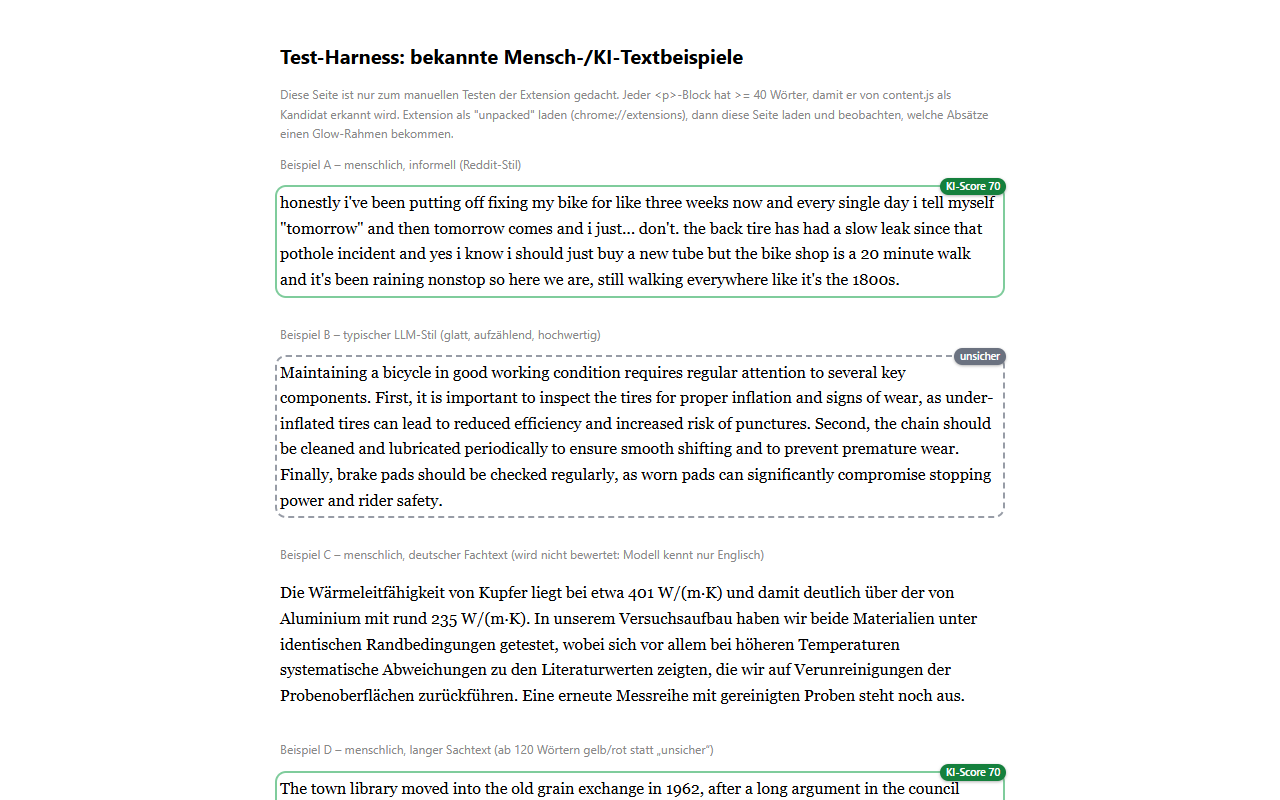
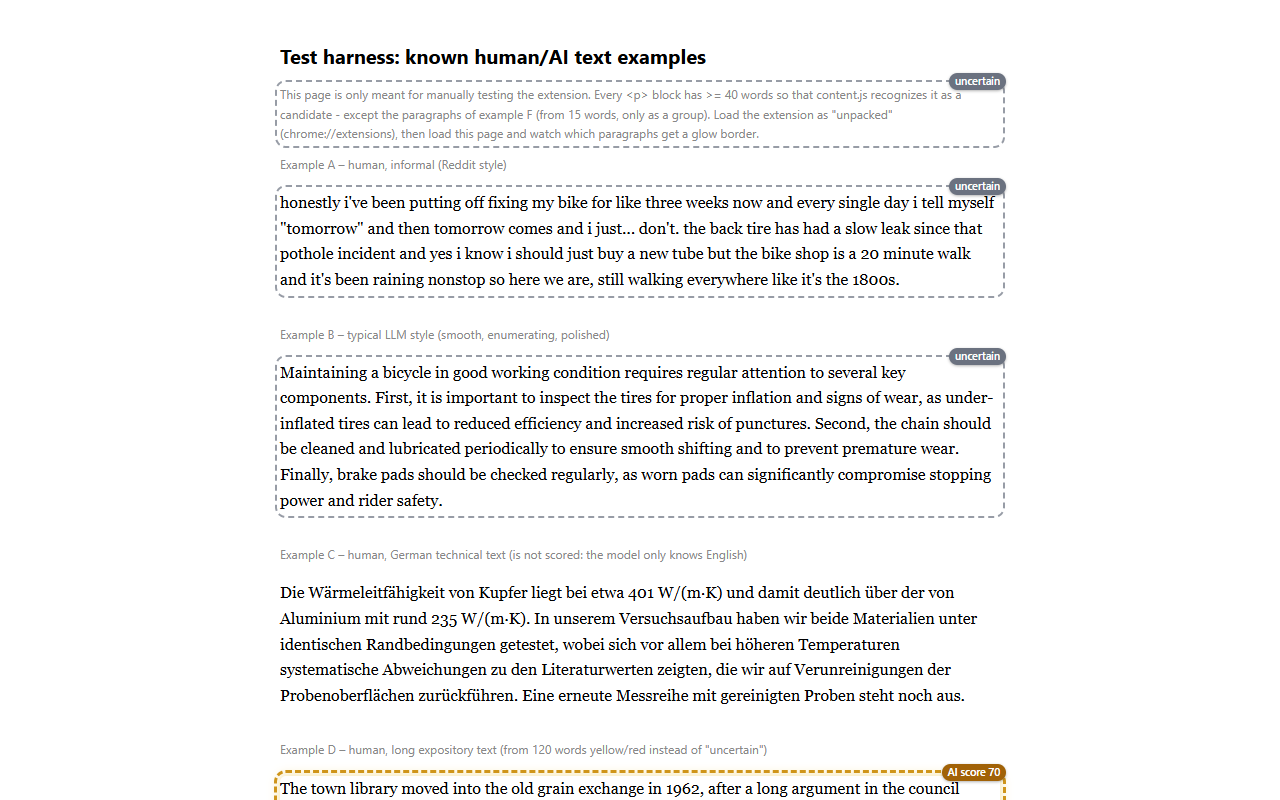
Align wording across extension and docs, regenerate store screenshots (#3)
- "bundled" blocklist in UI and docs, docs quote the UI labels exactly
- spelling "license" throughout
- drop the dead privacy-placeholder check from scripts/package.mjs
- store screenshots and promo tile regenerated with the English UI
- orchestration: WP-12 done, brief removed

diff --git a/extension/config.js b/extension/config.js
@@ -113,7 +113,7 @@ globalThis.AIVSAI = (() => {
     // Shipped: generated/blocklist.js (scripts/build-blocklist.mjs), plus own entries and exceptions.
     builtinBlocklist: true,
     blockedSites: [], // own entries, always apply
-    unblockedSites: [], // exceptions from the shipped list
+    unblockedSites: [], // exceptions from the bundled list
     // Treat sites with a visible password or payment field as blocked (catches what no list knows)
     sensitiveHeuristic: true,
     // only score paragraphs near the visible area, the rest only on scrolling (saves cloud costs)
@@ -201,7 +201,7 @@ globalThis.AIVSAI = (() => {
     return sites.some((s) => host === s || host.endsWith(`.${s}`));
   }
 
-  // Shipped list as a "\nd1\nd2\n...\n" string: search by host and all parent domains,
+  // Bundled list as a "\nd1\nd2\n...\n" string: search by host and all parent domains,
   // without building a set with 10,000 entries in every tab. Result remembered per host.
   const builtinCache = new Map();
   function builtinMatch(host) {
@@ -216,7 +216,7 @@ globalThis.AIVSAI = (() => {
     return builtinCache.get(host);
   }
 
-  // Why a site is blocked: "user" (own entry), "builtin" (shipped list) or null
+  // Why a site is blocked: "user" (own entry), "builtin" (bundled list) or null
   function blockReason(host, cfg) {
     if (siteMatches(host, cfg.blockedSites || [])) return "user";
     if (cfg.builtinBlocklist && builtinMatch(host) && !siteMatches(host, cfg.unblockedSites || [])) return "builtin";

diff --git a/extension/options.html b/extension/options.html
@@ -195,7 +195,7 @@
         precedence over all other settings. You can still deliberately check individual passages there via selection or
         right-click.</p>
       <label class="check" style="margin-top:0"><input type="checkbox" id="builtinBlocklist" />
-        <div>Use the shipped list (online banking, webmail, payment services, government portals)
+        <div>Use the bundled list (online banking, webmail, payment services, government portals)
           <div class="hint" id="builtinInfo"></div></div></label>
       <label class="check"><input type="checkbox" id="sensitiveHeuristic" />
         <div>Do not scan sites with a password or payment field
@@ -208,7 +208,7 @@
           <textarea id="blockedSites" rows="4" placeholder="intranet.example.com"></textarea>
         </div>
         <div>
-          <label class="label" for="unblockedSites">Exceptions from the shipped list</label>
+          <label class="label" for="unblockedSites">Exceptions from the bundled list</label>
           <textarea id="unblockedSites" rows="4" placeholder="blog.bank.example"></textarea>
         </div>
       </div>

diff --git a/extension/popup.js b/extension/popup.js
@@ -39,7 +39,7 @@ function renderSite() {
     $("siteHint").textContent = "Cannot scan here";
   } else if (reason) {
     $("siteHint").textContent =
-      reason === "builtin" ? "Shipped blocklist (bank/mail) – is never scanned" : "Blocklist – is never scanned";
+      reason === "builtin" ? "Bundled blocklist (bank/mail) – is never scanned" : "Blocklist – is never scanned";
   } else if (config.scanMode === "all") {
     siteAuto.checked = true;
     siteAuto.disabled = true;
@@ -148,7 +148,7 @@ $("siteAuto").addEventListener("change", async (e) => {
 $("blockToggle").addEventListener("click", async () => {
   const notHost = (list) => list.filter((s) => !AIVSAI.siteMatches(host, [s]));
   if (AIVSAI.blockReason(host, config)) {
-    // remove own entries; if the shipped list still applies, add an exception for this host
+    // remove own entries; if the bundled list still applies, add an exception for this host
     config.blockedSites = notHost(config.blockedSites);
     if (AIVSAI.blockReason(host, config)) config.unblockedSites = [...config.unblockedSites, host];
   } else {

diff --git a/extension/privacy.html b/extension/privacy.html
@@ -57,7 +57,7 @@
     <li>By default only on sites that you explicitly allow. Without permission the extension reads no
       text and does not observe the page.</li>
     <li><b>Blocklist:</b> Webmail, online banking, payment services and government portals with a login are never
-      checked automatically or via "Scan page now". The shipped list (around 14,000 domains) is
+      checked automatically or via "Scan page now". The bundled list (around 14,000 domains) is
       built into the extension and is not reloaded from the network – so nothing is reported anywhere
       about which sites you visit. Own entries and exceptions are possible in the settings and in the popup.</li>
     <li><b>Password and payment fields:</b> If a page shows a password, credit card or one-time-code field,

diff --git a/training/build_reference_set.py b/training/build_reference_set.py
@@ -4,9 +4,9 @@ from two redistributable sources, short (40..119 words) and long (from 120 words
 bucketed separately - so that "Check model" can, if needed, propose its own short-text threshold
 (reliableWords/shortRedFrom, like config.js RELIABLE_WORDS/models.js) from it.
 
-Licence check (details: git history of orchestration/LOG.md, WP-11, DECISION entries; left out when in doubt):
+License check (details: git history of orchestration/LOG.md, WP-11, DECISION entries; left out when in doubt):
   - HC3 (Hello-SimpleAI/HC3), CC BY-SA 4.0 - as before, five domains, generator ChatGPT (2023).
-  - RAID (liamdugan/raid), MIT licence - domain "wiki" (human texts from Wikipedia, CC BY-SA-
+  - RAID (liamdugan/raid), MIT license - domain "wiki" (human texts from Wikipedia, CC BY-SA-
     compatible), generators llama-chat/mistral/mistral-chat/mpt/mpt-chat/gpt2 (open models,
     contained in the MIT-licensed train split). Only `attack == "none"` (unaltered text, no
     RAID adversarial variant such as "synonym"/"paraphrase") and `decoding == "greedy"`
@@ -16,24 +16,24 @@ Licence check (details: git history of orchestration/LOG.md, WP-11, DECISION ent
     stay within the framework (open models) set by the orchestrator; see report for details.
   Previously wrongly assumed as a source and now removed: the sub-source "wikipedia" from
   Jinyan1/COLING_2025_MGT_en - verified via the column "source" it comes from M4GT-Bench/M4
-  (source == "m4gt"), not from MAGE as first assumed. M4GT-Bench/M4 have no licence on GitHub
+  (source == "m4gt"), not from MAGE as first assumed. M4GT-Bench/M4 have no license on GitHub
   ("license": null) - not redistributable, "left out when in doubt".
   Deliberately NOT used (other domains of Jinyan1/COLING_2025_MGT_en or RAID):
   - reviews (Yelp/IMDb): Yelp Open Dataset explicitly academic only, no redistribution to
-    third parties; IMDb dataset without a clear redistribution licence.
-  - news (XSum/CNN/TLDR/DialogSum): press article text (BBC/CNN), XSum licence on Hugging Face
+    third parties; IMDb dataset without a clear redistribution license.
+  - news (XSum/CNN/TLDR/DialogSum): press article text (BBC/CNN), XSum license on Hugging Face
     "unknown"; the Apache-2.0 tag on the CNN/DailyMail loading script does not cover the copyright status
     of the actual news texts. Likewise RAID domains "news"/"reviews"/"reddit"/"books"/
     "abstracts"/"recipes"/"poetry": human source texts there are press articles, Amazon/
     Goodreads reviews, Reddit posts, book excerpts, scientific abstracts, recipes and
     poems respectively, with their own rights that are unresolved or known to be restrictive - not used.
-  - sci_abstract (arXiv/PeerRead/SciGen/PubMed): licence per paper or publisher, arXiv's default
-    licence only allows arXiv itself to redistribute; cannot be checked at scale.
+  - sci_abstract (arXiv/PeerRead/SciGen/PubMed): license per paper or publisher, arXiv's default
+    license only allows arXiv itself to redistribute; cannot be checked at scale.
   - howto (WikiHow): content from wikihow.com is under CC BY-NC-SA 3.0 - NonCommercial does not fit
     a redistributed dataset.
   - forum parts outside HC3 (reddit, cmv, eli5): inconsistent/unresolved origin
     (among others Pushshift.io, whose legal status is itself disputed); unlike HC3, no
-    redistribution licence explicitly chosen by the authors' team found.
+    redistribution license explicitly chosen by the authors' team found.
 
 Extraction as in build_eval_suite.py (extract_excerpt, imported from there instead of duplicated):
 whitespace/tokenisation artefacts normalised ("space before punctuation", known among others from
@@ -221,9 +221,9 @@ def write(rows: list[dict]) -> None:
         f"{n_human} human and {n_ai} AI texts, English, short\n"
         "// (< 120 words) and long paragraphs bucketed separately (field `words`, see RELIABLE_WORDS in\n"
         "// model-check.js). Domains/generators: five from HC3 (Hello-SimpleAI/HC3, CC BY-SA 4.0, generator\n"
-        "// ChatGPT 2023) plus \"wikipedia\" from RAID (liamdugan/raid, MIT licence, domain \"wiki\"; human\n"
+        "// ChatGPT 2023) plus \"wikipedia\" from RAID (liamdugan/raid, MIT license, domain \"wiki\"; human\n"
         "// texts are Wikipedia articles; generators llama-chat/mistral/mistral-chat/mpt/mpt-chat/gpt2).\n"
-        "// Licence considerations per sub-source: comment at the head of training/build_reference_set.py.\n"
+        "// License weighing per sub-source: comment at the top of training/build_reference_set.py.\n"
         "// Generated by training/build_reference_set.py - do not edit by hand.\n"
         f"export const REFERENCE_SET = [\n{items}\n];\n",
         encoding="utf-8",

diff --git a/training/build_eval_suite.py b/training/build_eval_suite.py
@@ -2,10 +2,10 @@
 Builds a broader, reproducible eval suite (TODO item 3 / WP-01) from the public
 dataset Jinyan1/COLING_2025_MGT_en (Hugging Face). This dataset combines three research
 benchmarks for human-vs-AI detection (column "source"): MAGE (Apache-2.0), M4GT-Bench
-(EACL 2024, mbzuai-nlp/M4 - no explicit licence file found in the repo, pure research
+(EACL 2024, mbzuai-nlp/M4 - no explicit license file found in the repo, pure research
 use) and HC3 (**CC BY-SA 4.0**, not Apache-2.0 - verified via the dataset card, see
 git history of orchestration/LOG.md, WP-11; already used in this project for prepare_dataset.py).
-For the compilation itself (Jinyan1/COLING_2025_MGT_en) no licence is entered in the dataset card YAML
+For the compilation itself (Jinyan1/COLING_2025_MGT_en) no license is entered in the dataset card YAML
 - see DECISION in the log. Used only for local evaluation, raw data
 stays under training/data/ (gitignored), is not redistributed.
 
@@ -17,11 +17,11 @@ Domains (our category -> sub_source values of the dataset):
     reviews      yelp, imdb
     howto        wikihow
 
-Note on licence/origin per sub_source (column "source", verified by cross-check, WP-11):
+Note on license/origin per sub_source (column "source", verified by cross-check, WP-11):
 finance/medicine/open_qa/reddit_eli5/wiki_csai = hc3 (CC BY-SA 4.0); cmv/cnn/dialogsum/eli5/
 hswag/imdb/pubmed/roct/sci_gen/tldr/wp/xsum/yelp = mage (Apache-2.0, but human
 source texts partly with their own terms of use, e.g. Yelp/IMDb); arxiv/outfox/peerread/
-reddit/wikihow/**wikipedia** = m4gt (**no licence**, M4GT-Bench/M4 without a LICENSE file/field).
+reddit/wikihow/**wikipedia** = m4gt (**no license**, M4GT-Bench/M4 without a LICENSE file/field).
 The sub_source "wikipedia" above does NOT come from MAGE but from M4GT - contrary to what the name
 suggests. MAGE's own Wikipedia/SQuAD domain is called "squad" here (not included in DOMAINS above)
 and only has older generators (gpt-3.5-turbo, otherwise text-davinci-00x/flan-t5/opt/

diff --git a/training/MODEL_SEARCH.md b/training/MODEL_SEARCH.md
@@ -8,22 +8,22 @@ as displayed) and desklib (1.7 GB download / ~475 MB in the browser, ~1.3-2.3 s/
 
 ## Candidates (researched)
 
-Criteria from the brief: open licence without a non-commercial clause, < 500 MB (ideally < 200 MB),
+Criteria from the brief: open license without a non-commercial clause, < 500 MB (ideally < 200 MB),
 public without a gate, current training data, transformers.js-compatible architecture (checked:
 RoBERTa, BERT and ModernBERT are present in the `@huggingface/transformers@4.3.0` pinned in this repo
 - `package/src/models/{roberta,bert,modernbert}/`; Longformer is not).
 
-| Repo | Licence | Architecture | Size (fp32 / ONNX) | ONNX available | Training data | Status |
+| Repo | License | Architecture | Size (fp32 / ONNX) | ONNX available | Training data | Status |
 |---|---|---|---|---|---|---|
 | **fakespot-ai/roberta-base-ai-text-detection-v1** | Apache-2.0 | RoBERTa-base (125M) | 499 MB / **125 MB int8** | Yes ([MedAliFarhat/ai-text-detector-onnx](https://huggingface.co/MedAliFarhat/ai-text-detector-onnx), Apache-2.0, `sha 0c809a8`, explicitly built for transformers.js) | Not disclosed in detail (refers to github.com/FakespotAILabs/ApolloDFT, technical report without a concrete list of sources) | **Measured, recommended** |
 | MayZhou/e5-small-lora-ai-generated-detector | MIT | BERT/e5-small (33M) | 133 MB / no ONNX | No | RAID-train (80k human, 128k AI) + 10k Twitter+GPT-4o-mini paraphrases | Measured, **rejected** (poorly calibrated) |
 | AICodexLab/answerdotai-ModernBERT-base-ai-detector | Apache-2.0 | ModernBERT-base (149M) | 598 MB / no ONNX | No | DAIGT V2 (Kaggle student essays + ChatGPT/Claude/DeepSeek, ~36k texts) | Measured, **rejected** (scores saturate near 1.0, generalises poorly) |
 | ShantanuT01/gradient-ai-text-detector | MIT | DeBERTa-v3-large (~435M, like desklib) | 1.74 GB / 408 MB (int4 `model_q4.onnx` only, no int8) | Yes (int4) | DACTYL 2.0 + LLMTrace + MAGA-Bench (~1.1 million texts) | Not measured: size target clearly missed (almost as large as desklib, int4 in the browser also risky/little tested); model card claims AUROC 0.955 OOD vs. desklib 0.921 OOD - own value, not verified |
 | yaful/MAGE | Apache-2.0 | Longformer | - | - | MAGE dataset | **Rejected**: Longformer is not supported by transformers.js; MAGE is also one of the three sources of our own eval suite (`training/EVAL_RESULTS.md`) - direct contamination |
-| Hello-SimpleAI/chatgpt-detector-roberta | no licence given | RoBERTa-base | - | - | HC3 | **Rejected**: no licence in the model repo, HC3 is part of our eval suite (forum domain) - contamination |
-| andreas122001/roberta-academic-detector, roberta-mixed-detector | OpenRAIL | RoBERTa-large | - | - | NicolaiSivesind/human-vs-machine | **Rejected**: OpenRAIL is a behavioural licence (usage restrictions), not MIT/Apache/CC-BY as required |
-| raj-tomar001/LLM-DetectAIve_deberta-base | no licence/model card | DeBERTa-base | - | - | unknown | **Rejected**: no model card, no licence information |
-| SuperAnnotate/ai-detector(-low-fpr) | "other" (unclear) | RoBERTa-large | 1.4 GB | No | Wikipedia + ELI5 | **Rejected**: licence unclear, too large, Wikipedia/ELI5 are part of our eval suite - contamination |
+| Hello-SimpleAI/chatgpt-detector-roberta | no license given | RoBERTa-base | - | - | HC3 | **Rejected**: no license in the model repo, HC3 is part of our eval suite (forum domain) - contamination |
+| andreas122001/roberta-academic-detector, roberta-mixed-detector | OpenRAIL | RoBERTa-large | - | - | NicolaiSivesind/human-vs-machine | **Rejected**: OpenRAIL is a behavioural license (usage restrictions), not MIT/Apache/CC-BY as required |
+| raj-tomar001/LLM-DetectAIve_deberta-base | no license/model card | DeBERTa-base | - | - | unknown | **Rejected**: no model card, no license information |
+| SuperAnnotate/ai-detector(-low-fpr) | "other" (unclear) | RoBERTa-large | 1.4 GB | No | Wikipedia + ELI5 | **Rejected**: license unclear, too large, Wikipedia/ELI5 are part of our eval suite - contamination |
 
 8 candidates researched, 3 actually measured (acceptance requires at least 2).
 
@@ -310,7 +310,7 @@ already covers fakespot completely (see label check above). `desklib` stays the 
 as with desklib's own pooling class needed) - little effort, so included. Revision there:
 `f9cdb14d1f8b105f597d80fa7b56f20c6ea0e9db` (PyTorch original, last commit).
 
-**Licence:** `extension/THIRD_PARTY_NOTICES.md` extended with the fakespot entry (Apache-2.0 for
+**License:** `extension/THIRD_PARTY_NOTICES.md` extended with the fakespot entry (Apache-2.0 for
 original and third-party ONNX, base model RoBERTa-base MIT).
 
 ### Limitations (in addition to WP-06)

diff --git a/DEVELOPMENT.md b/DEVELOPMENT.md
@@ -47,7 +47,7 @@ In Chrome/Edge:
 1. `chrome://extensions` → "Developer mode" on → "Load unpacked" → `extension/`.
 2. The settings open → choose a model, "Download" (one time, from Hugging Face,
    no token): desklib (default) 1.7 GB, converted in the browser to ~475 MB; TMR 126 MB.
-3. Extension icon → "Scan this page automatically" or "Scan page now".
+3. Extension icon → "Scan this site automatically" or "Scan page now".
 4. Offline test page: for the extension "Allow access to file URLs", then open `test/harness.html`.
 
 Optional – server backend (desklib or TMR via PyTorch), provider "Local":
@@ -89,7 +89,7 @@ and records every text sent (random port, a running `shim_server.py` does not in
 | `extraction.test.mjs` | What goes to the model: 23 edge cases (navigation, cookie banner, hidden paragraphs, code, icon fonts, forms …), with and without lazy scan |
 | `text-length.test.mjs` | Up to 2000 characters, cut at sentence end, batch budget 2500 characters, right-click = same excerpt as auto-scan |
 | `feedback.test.mjs` | Feedback in the popover: click on the badge (also in links, without re-scoring), consent before the first save, undo, export without address, withdrawal, switching off |
-| `score-store.test.mjs` | Persistent store: SW restart, mapping across pages, model switch, retention, "Don't store" |
+| `score-store.test.mjs` | Persistent store: SW restart, mapping across pages, model switch, retention, "Do not store" |
 | `model-check.test.mjs` | "Check model" in the settings: required before saving, swapped labels rejected, traffic light taken from the server, version in the model key, new URL invalidates the check |
 
 Not covered: scoring with the real browser model (would need the model download) and the
@@ -167,7 +167,7 @@ Hugging Face provider with a real token (mocked only, see `providers.test.mjs`).
 - **Check single passages:** right-click on selected text or on a paragraph (or
   `Alt+Shift+C`), independent of the scan mode and also for text the auto-scan leaves out
   (from 5 words, up to 2000 characters). Marking via CSS Custom Highlight API, result in the popover.
-- **Remember scores (default 30 days, adjustable up to 1 year or "don't store"):**
+- **Remember scores (default 30 days, adjustable up to 1 year or "Do not store"):**
   known paragraphs are marked immediately without recomputing – also after a browser restart and
   on other pages with the same text.
 - **Feedback (stage 1 – local only):** clicking the badge of a marked paragraph opens
@@ -378,7 +378,7 @@ statistics from the register instead of document scans.
 - Very short paragraphs (15–39 words) are scored in groups (BBC articles now covered).
 - Reference set for "Check model" broadened (114 texts, HC3 + RAID wiki, short paragraphs), license checked per
   sub-source.
-- Store preparation: icons, "About / Licenses" page (`about.html`), store texts and justification of the
+- Store preparation: icons, "About / licenses" page (`about.html`), store texts and justification of the
   permissions (`store/`), screenshot script.
 
 **Open:** see `TODO.md`.

diff --git a/training/EVAL_RESULTS.md b/training/EVAL_RESULTS.md
@@ -240,9 +240,9 @@ across several domains and several, more recent AI generators?
 MAGE ([`yaful/MAGE`](https://huggingface.co/datasets/yaful/MAGE), Apache-2.0), M4GT-Bench
 (mbzuai-nlp/M4, EACL 2024 - no LICENSE file found in the GitHub repo, pure research/eval
 use) and HC3 (Apache-2.0, already used in `prepare_dataset.py`). For the compilation
-itself no licence is entered in the dataset card YAML; used only for local evaluation,
+itself no license is entered in the dataset card YAML; used only for local evaluation,
 raw data stays under `data/` (gitignored), no redistribution. **RAID** (`liamdugan/raid`,
-MIT licence) was examined but rejected: the `train`/`extra` splits there contain only open models
+MIT license) was examined but rejected: the `train`/`extra` splits there contain only open models
 (Llama-Chat, Mistral, MPT, GPT-2) - the GPT-4/ChatGPT/Cohere generations listed in the dataset
 apparently exist only in the unlabeled `test` split (leaderboard), so they are not publicly
 usable with labels.
@@ -412,7 +412,7 @@ Cohere).
 
 - No Claude/Gemini available as a generator (no public labelled dataset found,
   no own API keys) - the detection rates say nothing about these two model families.
-- M4GT-Bench licence unresolved (see above) - data stays local, no redistribution.
+- M4GT-Bench license unresolved (see above) - data stays local, no redistribution.
 - desklib measured on only 480/1200 texts (time budget); domain values there on n=80 per domain,
   generator values on n=19–102 - in particular the 10% FA on `news` (8/80) and the
   short-paragraph numbers (n=13–32) have noticeable sampling uncertainty.
@@ -604,7 +604,7 @@ changed).
   not a formality.
 - The WikiHow structure analysis is code reading + domain knowledge, not a measurement on real pages (fetch
   of wikihow.com blocked in this environment). It shows a plausible range, not a value.
-- As in "Broader eval suite": no Claude/Gemini as a generator, M4GT licence unresolved (data stays
+- As in "Broader eval suite": no Claude/Gemini as a generator, M4GT license unresolved (data stays
   local), human texts partly already editorially/algorithmically preprocessed (XSum/CNN), models
   may have seen parts of the source datasets in training.
 - desklib now fully on 1200 texts (720 new + 480 from WP-01, text itself as the key when

diff --git a/orchestration/LOG.md b/orchestration/LOG.md
@@ -7,3 +7,4 @@ Format: `- YYYY-MM-DD HH:MM · <WP|ORCH|USER> · <TYPE> · text` – append only
 - 2026-10-08 18:50 · ORCH · DECISION · Scope of "English only": UI texts, comments, tests, docs, script output, store listing. German stays only where it is data (stopword lists and German fixtures for the language detection, URLs, dataset contents). Workers do not write to this log in this round; their decisions are in the final reports.
 - 2026-10-08 18:56 · ORCH · INFO · WP-12c reviewed (digit sequences of all 19 files compared against the German originals, spot-read) and merged (60ca39b). Followed up: grey level "unsicher" is "uncertain" (not "unclear" = yellow), references to the cleared log now point at the git history.
 - 2026-10-08 18:59 · ORCH · INFO · WP-12b reviewed and merged (2c6aaf7). Found by comparing digit sequences: the BBC before/after table (3 rows) plus the paragraph below it were missing in test/REAL_PAGES.md - restored. RESOURCES.md heading back to "Open questions / not verified". Structure counts (headings, table rows, list items) of all docs match the German originals; store/LISTING.md deliberately keeps only the English half.
+- 2026-10-08 19:06 · ORCH · INFO · WP-12a reviewed (line, digit, assertion and test counts per file compared with the German originals) and merged (3acae33). Aligned afterwards: "bundled" blocklist everywhere (UI said "shipped"), docs quote the UI labels exactly, spelling "license", dead privacy-placeholder check removed from scripts/package.mjs, store screenshots regenerated in English. npm test on the branch after all merges: 230/230 green. WP-12 done; brief removed, worktrees and branches removed.

diff --git a/store/LISTING.md b/store/LISTING.md
@@ -30,7 +30,7 @@ leaves your machine. If you prefer, you can instead use a local server, your own
 or the Hugging Face Inference API; the extension clearly shows where text would be sent before it is.
 
 **When it scans:** Only on pages you explicitly allow (or only on demand, per click) – no text is
-sent without your action. A built-in blocklist (online banking, webmail, government login portals)
+sent without your action. A bundled blocklist (online banking, webmail, government login portals)
 and detection of password/payment fields additionally prevent scanning of sensitive pages, regardless
 of this setting.
 
@@ -46,4 +46,4 @@ of this setting.
 
 **Open source:** The code is MIT-licensed. License and data-provenance details (including a
 CC BY-SA 4.0 blocklist and a CC BY-SA 4.0 reference set used for "Check model") are available via
-"About / Licenses" in the extension's settings.
+"About / licenses" in the extension's settings.

diff --git a/training/README.md b/training/README.md
@@ -180,7 +180,7 @@ very accurate (Russell et al. 2025) – but individually not error-free either. 
 Rough costs: 20,000 pairs × ~150 output tokens over 6 models is ~3 million output tokens –
 via API in the low double-digit dollar range depending on the model, free locally with open models.
 Legal: check the providers' terms of use (some forbid using outputs to train
-competing models – a detector is not that, but read them anyway), licences of the
+competing models – a detector is not that, but read them anyway), licenses of the
 human sources (CC-BY-SA → attribution/redistribution), for web texts § 44b UrhG (German copyright act; text and
 data mining allowed, except with a machine-readable reservation of rights; delete copies when no longer
 needed).
